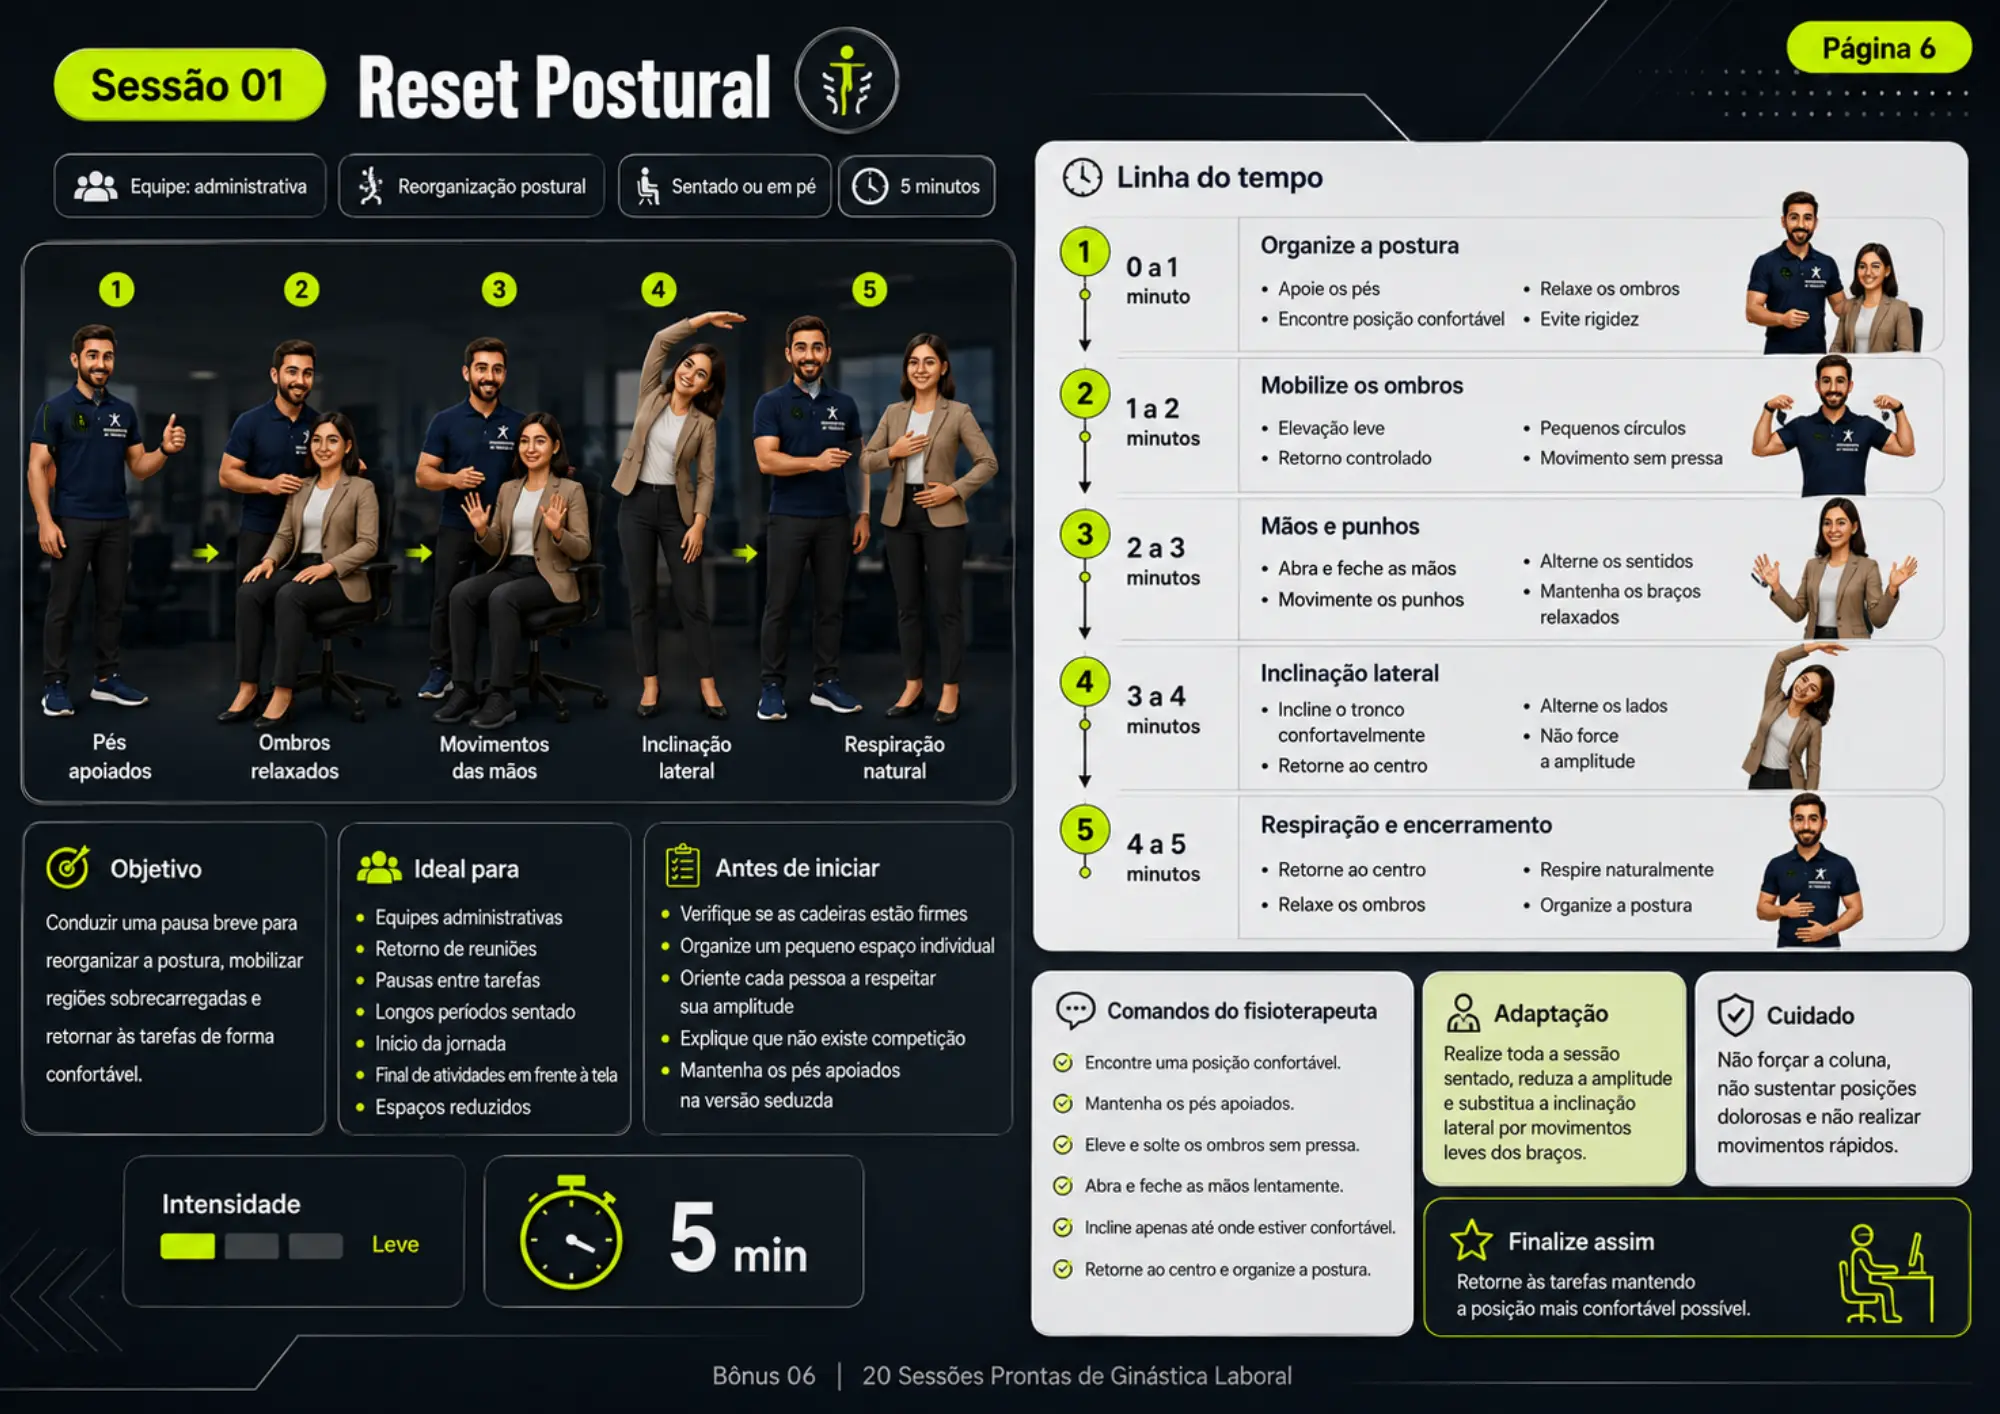
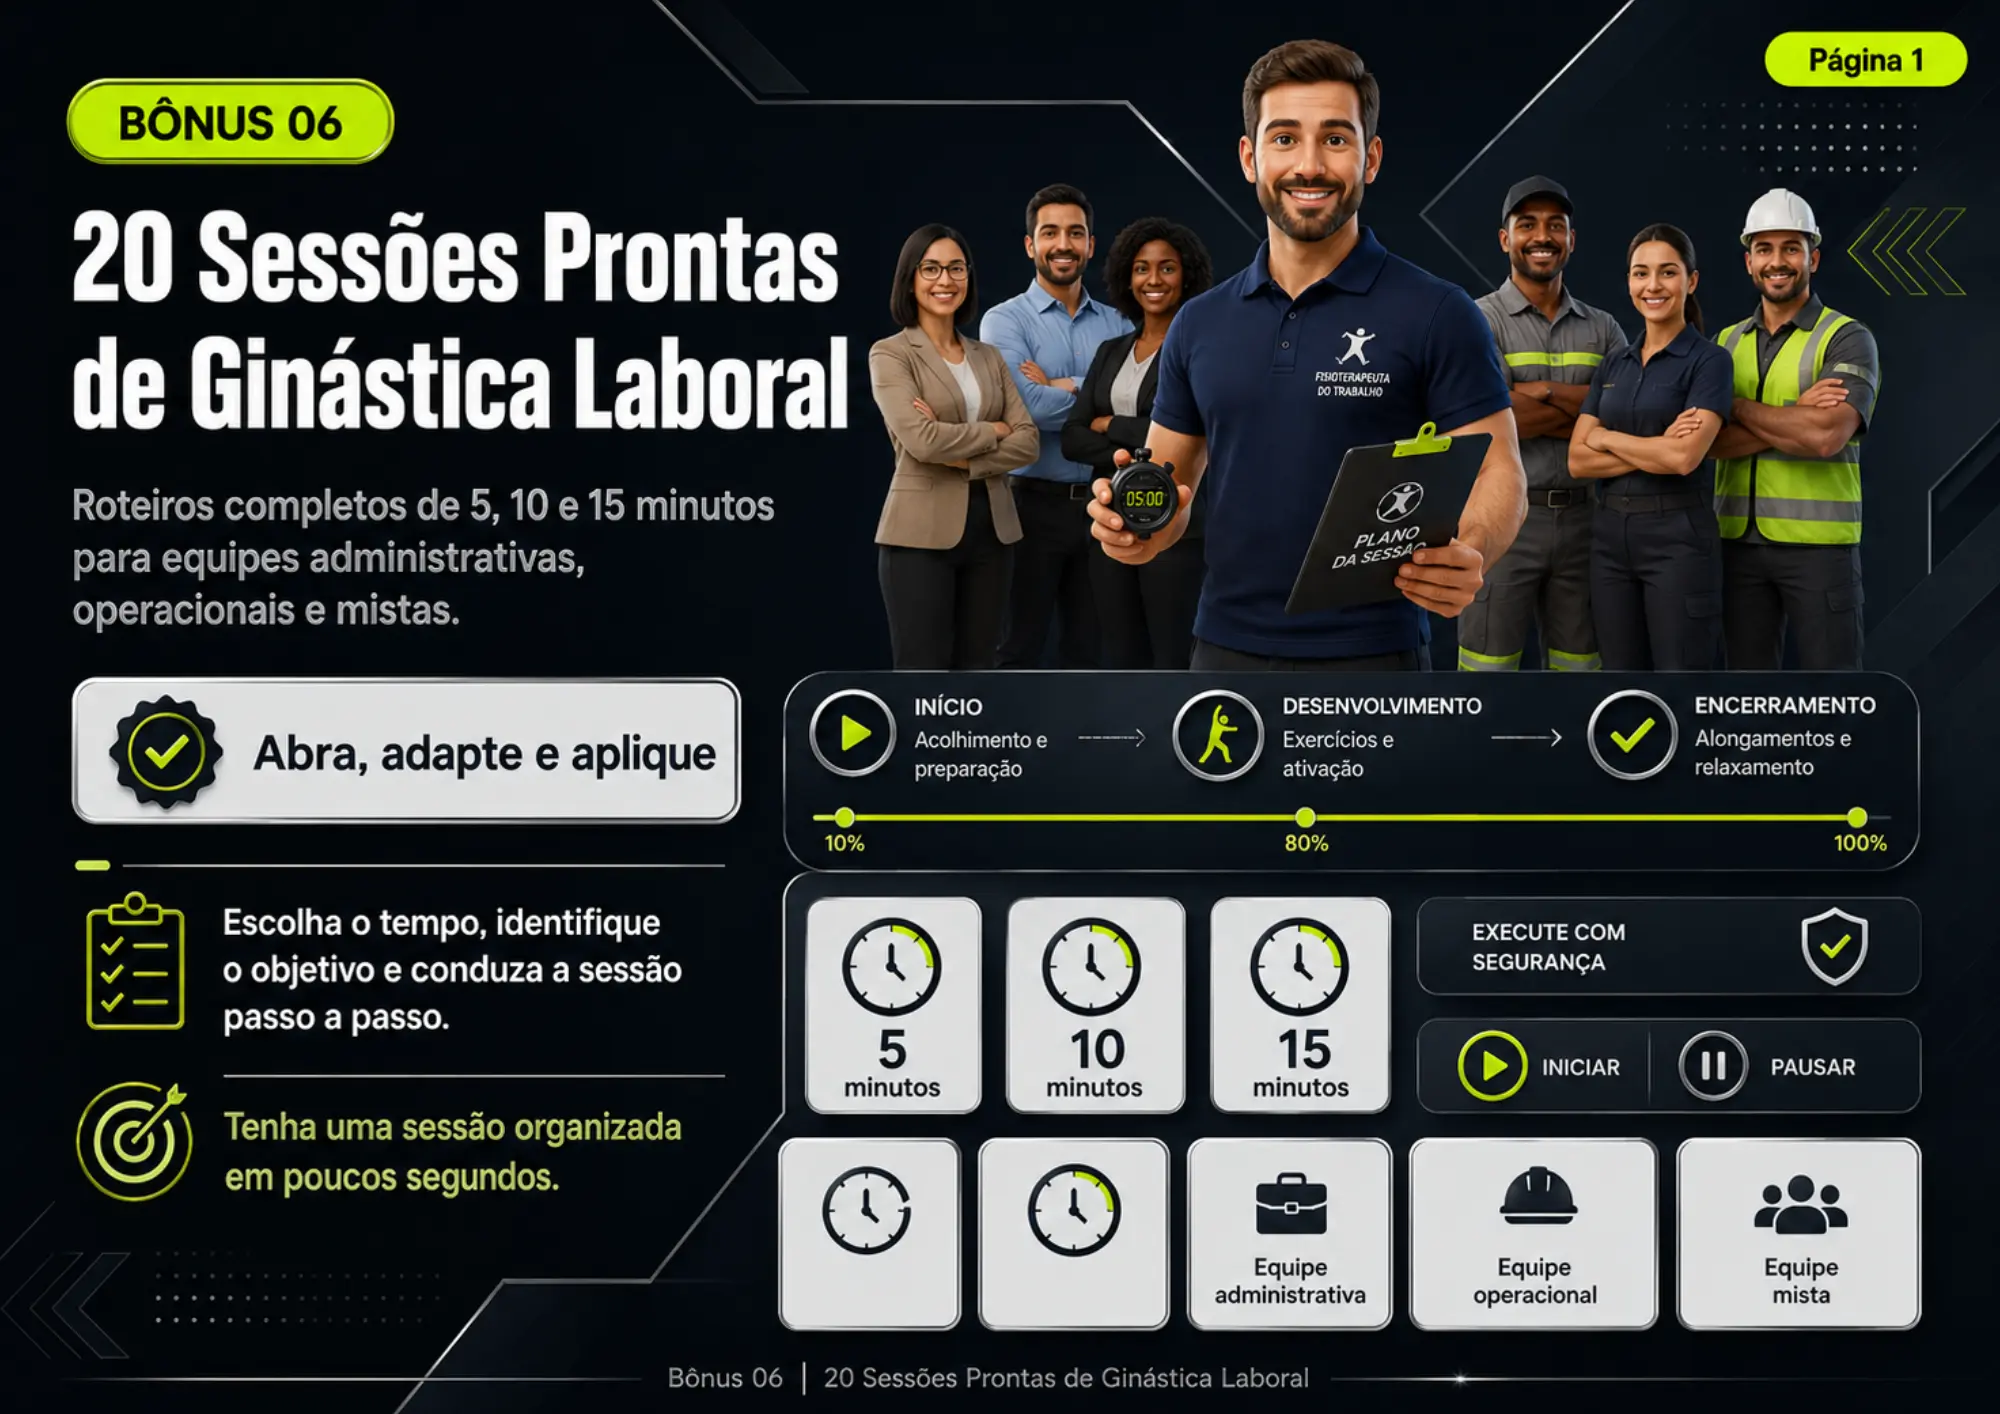
Restaura paletas e corrige bonus laboral

diff --git a/src/app/laboral/layout.tsx b/src/app/laboral/layout.tsx
@@ -1,6 +1,7 @@
 import type { Metadata } from "next"
 import Script from "next/script"
 import { OFFER } from "@/config/offers/laboral/offer"
+import { PaletteSwitcher } from "@/components/dev/PaletteSwitcher"
 import { OfferProvider } from "@/context/offer-context"
 
 export const metadata: Metadata = {
@@ -54,6 +55,7 @@ fbq('track', 'PageView');
       } as React.CSSProperties}>
         <OfferProvider offer={OFFER}>{children}</OfferProvider>
       </div>
+      <PaletteSwitcher />
     </>
   )
 }
